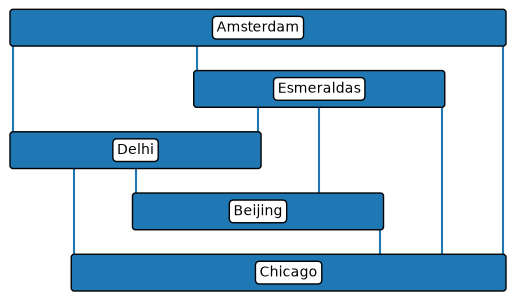
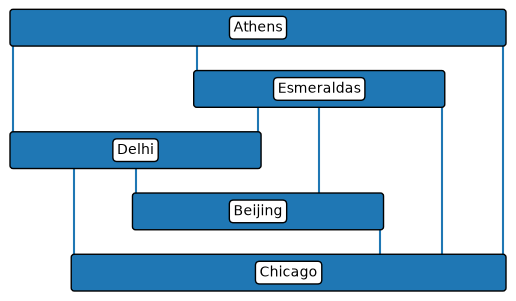
Shorten city name lists

Changed region(s): [[0.4031, 0.0299, 0.5891, 0.1495]]

diff --git a/examples/express/draw.py b/examples/express/draw.py
@@ -4,10 +4,11 @@ import planarity
 # Example of the complete graph of 5 nodes, K5, which is not planar
 
 # Use text strings as labels
-edgelist = [('Amsterdam', 'Beijing'), ('Amsterdam', 'Chicago'), ('Amsterdam', 'Delhi'), ('Amsterdam', 'Esmeraldas'),
-            ('Beijing', 'Chicago'),('Beijing', 'Delhi'),('Beijing', 'Esmeraldas'),
-            ('Chicago', 'Delhi'), ('Chicago', 'Esmeraldas'),
-            ('Delhi', 'Esmeraldas')]
+edgelist = [
+    ('Athens', 'Beijing'), ('Athens', 'Chicago'), ('Athens', 'Delhi'), ('Athens', 'Esmeraldas'),
+    ('Beijing', 'Chicago'),('Beijing', 'Delhi'),('Beijing', 'Esmeraldas'),
+    ('Chicago', 'Delhi'), ('Chicago', 'Esmeraldas'),
+    ('Delhi', 'Esmeraldas')]
 
 # Once can use a try-except to handle non-planar graphs.
 P = planarity.PGraph(edgelist)
@@ -17,7 +18,7 @@ except Exception:
     print("The graph cannot be drawn because it is non-planar.\n")
 
 # Remove an edge so that the graph is now planar
-edgelist.remove(('Amsterdam', 'Beijing'))
+edgelist.remove(('Athens', 'Beijing'))
 
 # How to test graph is planar before attempting to draw: create two PGraph, one
 # on which you will perform is_planar() test, and the second on which you invoke

diff --git a/README.md b/README.md
@@ -25,17 +25,18 @@ In [1]: # Example of the complete graph of 5 nodes, K5, which is not planar.
 
 In [2]: import planarity
 
-In [3]: edgelist = [('Amsterdam', 'Beijing'), ('Amsterdam', 'Chicago'), ('Amsterdam', 'Delhi'), ('Amsterdam', 'Esmeraldas'),
-                    ('Beijing', 'Chicago'),('Beijing', 'Delhi'),('Beijing', 'Esmeraldas'),
-                    ('Chicago', 'Delhi'), ('Chicago', 'Esmeraldas'),
-                    ('Delhi', 'Esmeraldas')]
+In [3]: edgelist = [
+            ('Athens', 'Beijing'), ('Athens', 'Chicago'), ('Athens', 'Delhi'), ('Athens', 'Esmeraldas'),
+            ('Beijing', 'Chicago'),('Beijing', 'Delhi'),('Beijing', 'Esmeraldas'),
+            ('Chicago', 'Delhi'), ('Chicago', 'Esmeraldas'),
+            ('Delhi', 'Esmeraldas')]
 
 In [4]: print(planarity.is_planar(edgelist))
 False
 
 In [5]: # Remove an edge to make the graph planar
 
-In [6]: edgelist.remove(('Amsterdam', 'Beijing'))
+In [6]: edgelist.remove(('Athens', 'Beijing'))
 
 In [7]: print(planarity.is_planar(edgelist))
 True
@@ -43,7 +44,7 @@ True
 In [8]: # Show the mapping of node indexes to their original labels
 
 In [9]: print(planarity.mapping(edgelist))
-{1: 'Amsterdam', 2: 'Beijing', 3: 'Chicago', 4: 'Delhi', 5: 'Esmeraldas'}
+{1: 'Athens', 2: 'Beijing', 3: 'Chicago', 4: 'Delhi', 5: 'Esmeraldas'}
 
 In [10]: # Draw the graph as text
 
@@ -67,7 +68,7 @@ In [12]: planarity.draw(edgelist, outfileName='K5-minus-edge.png', vertex_border
 ![K_5-minus-edge](https://raw.githubusercontent.com/graph-algorithms/planarity/master/examples/express/output/K5-minus-edge.png
 "Matplotlib render of $K_5$-minus-edge")
 
-Note that the removed edge `('Amsterdam', 'Beijing')` corresponds to edge `(1, 2)` using vertex indexes.
+Note that the removed edge `('Athens', 'Beijing')` corresponds to edge `(1, 2)` using vertex indexes.
 
 See [here](https://github.com/graph-algorithms/planarity/tree/master/examples)
 for more examples.
